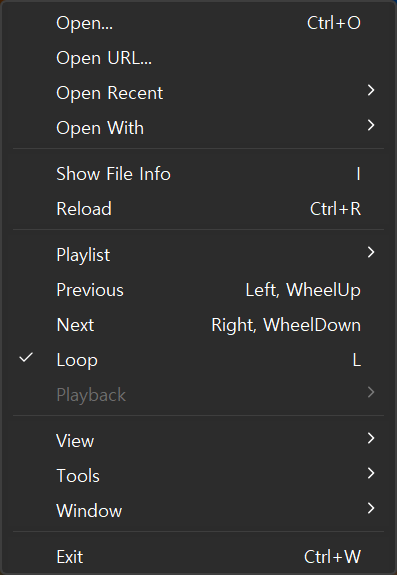
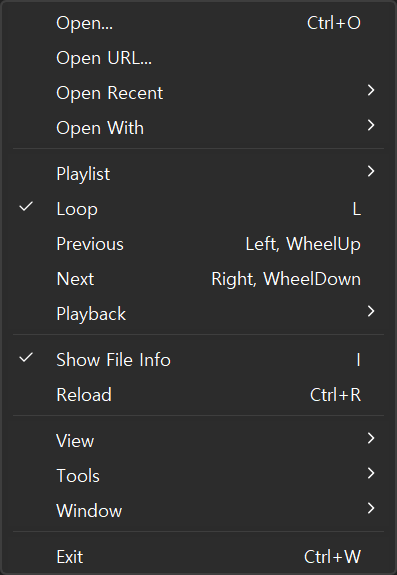
Try the bundled HEIF decoder after any codec failure
The fallback fired only when no codec was registered, but a
registered extension can still fail to initialize when its video
decoder dependency is broken. Cancellation is the one error that
must keep propagating.

diff --git a/src/image/decode.rs b/src/image/decode.rs
@@ -536,11 +536,13 @@ fn decode_input(
         .and_then(|decoded| enforce_device_limit(decoded, cancellation)),
         Adapter::HeifWithWicPreferred => {
             decode_with_wic(input, format_name, semantics, cancellation).or_else(|error| {
-                if error.code == WINCODEC_ERR_COMPONENTNOTFOUND.0 {
+                // Any WIC failure tries the bundled decoder; a registered codec can
+                // still fail to initialize when its video decoder dependency is broken.
+                if error.is_cancelled() {
+                    Err(error)
+                } else {
                     super::fallback::decode_heif(&input.read_all()?, format_name)
                         .and_then(|decoded| enforce_device_limit(decoded, cancellation))
-                } else {
-                    Err(error)
                 }
             })
         }

diff --git a/README.md b/README.md
@@ -36,7 +36,8 @@ files fail without it; the error names the one to install:
 
 | Format | Required extension |
 |---|---|
-| HEIC / HEIF † | HEVC Video Extensions (Microsoft Corporation) |
+| HEIC † | HEVC Video Extensions (Microsoft Corporation) |
+| HEIF ‡ | HEIF Image Extension (Microsoft Corporation) |
 | AVIF ‡ | AV1 Video Extension (Microsoft Corporation) |
 | JPEG XL ‡ | JPEG XL Image Extension (Microsoft Corporation) |
 | WebP (still) ‡ | WebP Image Extensions (Microsoft Corporation) |
